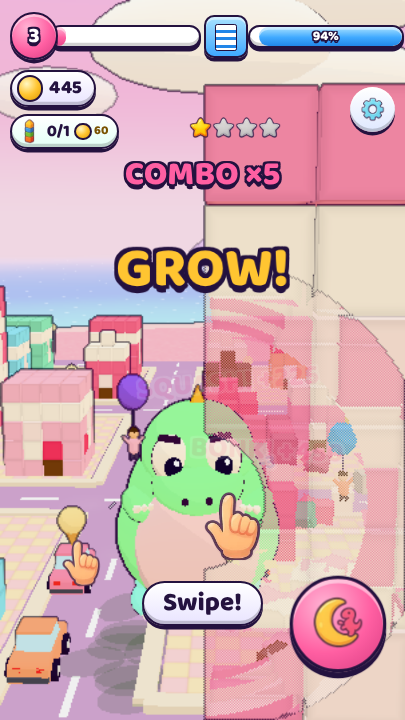
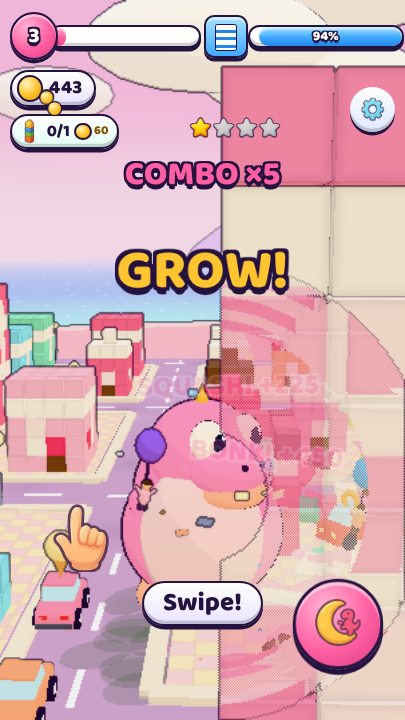
Toy City Stomp: perbaiki "THREE is not defined" di draft Astrocade (#59)
* fix: market-check baca feed v4; cek pasar 2026-11-19

Endpoint feed pindah dari /v3/feed ke /v4/feed, jadi Players' Choice kosong.
Task: cek backend Astrocade 2026-11-19

Claude-Session: https://claude.ai/code/session_01S4KwR7MKC4j1g8MStTRCUH

* chore: upgrade otak ASTROCADE.md, cek backend 19 Nov

Tipe tercepat diukur ulang dari laju plays live 132 game; 8 game teratas
dibedah untuk alasan tidak di-skip dan sesi panjang; cara ukur diperbarui
(feed v4, /v3/games lewat halaman game tamu, astrotopper harian).
Task: cek backend Astrocade 2026-11-19

Claude-Session: https://claude.ai/code/session_01S4KwR7MKC4j1g8MStTRCUH

* chore: upgrade otak ASTROCADE.md, rumus genre hancurkan

9 game hancurkan teratas dibedah (Smash Everything, Kaiju City, Prank City,
Crash Bot Lab, Robo-Crash, 2 TNT voxel, 2 ragdoll): hook, umpan balik,
kombo/eskalasi, koleksi alat, sasaran tak habis, pemicu share, aturan aman anak.
Task: cek backend Astrocade 2026-11-19

Claude-Session: https://claude.ai/code/session_01S4KwR7MKC4j1g8MStTRCUH

* feat: Toy City Stomp, uji rupa 3D monster raksasa di kota mainan

Bonbon berjalan satu jari, gigit balok, rumah ambruk, menara domino, mobil penyok,
warga balon, tumbuh 8 tahap, kombo, Putar Ekor, layar hasil, 7 bahasa, tembus pandang.
Alat baru tools/artifact-modules.js untuk artifact game modul ES.
Task: GDD Toy City Stomp K1-K6 (artifact 2026-11-19)

Claude-Session: https://claude.ai/code/session_01S4KwR7MKC4j1g8MStTRCUH
[…]

diff --git a/prototypes/toy-city-stomp/shapes.js b/prototypes/toy-city-stomp/shapes.js
@@ -1,10 +1,9 @@
-// PROTOTYPE - NOT FOR PRODUCTION
 // Detailed toy shapes built from parts and merged into one geometry each (one draw call per kind of thing):
 // cars with wheel arches, glass cabin, lights and hubcaps; little people; trees; toy tanks and helicopters.
 // Parts carry their colour as vertex colours; white parts take the instance colour (each car its own paint).
 /* global THREE */ // Three.js r187, set on window by index.html before run()
 
-const tmp = new THREE.Color();
+let tmp = null; // created lazily: THREE arrives from the CDN after module import
 /** Merges [geometry, colour, matrix?] parts into one non-indexed geometry with position, normal and colour. */
 export function mergeParts(parts) {
   const pos = [], nor = [], colArr = [];
@@ -12,7 +11,7 @@ export function mergeParts(parts) {
     const g = g0.index ? g0.toNonIndexed() : g0.clone();
     if (m) g.applyMatrix4(m);
     if (!g.attributes.normal) g.computeVertexNormals();
-    tmp.setHex(c);
+    (tmp ||= new THREE.Color()).setHex(c);
     const p = g.attributes.position, n = g.attributes.normal;
     for (let i = 0; i < p.count; i++) { pos.push(p.getX(i), p.getY(i), p.getZ(i)); nor.push(n.getX(i), n.getY(i), n.getZ(i)); colArr.push(tmp.r, tmp.g, tmp.b); }
     g.dispose(); if (g0 !== g) g0.dispose();

diff --git a/prototypes/toy-city-stomp/playtest.js b/prototypes/toy-city-stomp/playtest.js
@@ -15,6 +15,17 @@ const server = http.createServer((q, s) => {
 (async () => {
   const port = server.address().port, fails = [];
   const check = (ok, msg) => { console.log((ok ? 'ok   ' : 'FAIL ') + msg); if (!ok) fails.push(msg); };
+  // Astrocade bundles every module into one script that runs before three.js arrives from the CDN: importing a
+  // module must not touch THREE (a top-level new THREE.Color() broke the draft once)
+  {
+    const bad = [], url = require('url');
+    globalThis.window = globalThis; // game.js registers window.run when imported
+    for (const f of ['toon', 'shapes', 'movefx', 'moves', 'missions', 'bonbon', 'army', 'city', 'game']) {
+      try { await import(url.pathToFileURL(path.join(__dirname, f + '.js')).href); } catch (e) { bad.push(`${f}.js: ${e.message}`); }
+    }
+    delete globalThis.window; delete globalThis.run;
+    check(bad.length === 0, `no module touches THREE when imported (${bad.join('; ') || 'all 9 load'})`);
+  }
   const browser = await chromium.launch({ args: ['--use-gl=angle', '--use-angle=swiftshader', '--enable-unsafe-swiftshader'] });
   // screen comfort, on its own page at normal speed: hold a wandering drag with a big Bonbon, record the camera
   {

diff --git a/ASTROCADE.md b/ASTROCADE.md
@@ -76,7 +76,7 @@ Semua terjadi di sesi Pinata Maker 2026-11-18. Tiap butir: apa yang salah, lalu 
 ### 4. Platform Astrocade dan Three.js (terbukti lewat unggah nyata)
 - Iframe persis 720×1280; `window.run = run`; host memanggil `run('play'|'edit')`, bisa lebih dari sekali. Mode edit: gambar hidup tanpa gameplay dan tanpa input.
 - Dilarang: `localStorage`, cookie, `alert`, popup, jaringan selain CDN (jsDelivr, unpkg, cdnjs) dan aset platform. Simpanan hanya `lib.saveUserGameState`/`getUserGameState` (satu slot, state penuh). Getar hanya `lib.haptics`. `lib.showGameParameters` wajib kalau config punya angka; leaderboard di `persistent_storage_config`.
-- Akun ini multi-berkas: `index.html` memuat `./game.js` sebagai modul; server uji lokal wajib mengirim `content-type: text/javascript`. Unggah: `create_game` tanpa berkas, lalu `begin_upload` (purpose `game_file`) + `curl -X PUT -T` + `save_draft` dengan `file_upload_ids`; semua berkas sumber harus ikut tiap simpan (`game_config.json` dan `asset_map.json` boleh ditinggal). Draft pribadi; publish menunggu kata user dan thumbnail GIF buatan user. `game_config.json` yang tidak dikirim tetap utuh, tapi server memformat ulang (ukuran berubah, nilai sama). `save_draft` menjawab "changed" kalau game diubah di tempat lain (mis. user memasang thumbnail): `pull_game`, bandingkan tiap berkas dengan `cmp`, gabungkan bila beda, baru simpan dengan `sync_token` baru; jangan pernah menimpa perubahan yang belum dilihat. Multi-berkas: tiap simpan mengirim semua berkas (README dan `index.html` ikut), yang tidak dikirim terhapus. **Three.js di game multi-berkas (2026-11-19):** bundler Astrocade (esbuild) gagal pada `import ... from 'three'` ("Could not resolve"). Yang lolos: import map + `<script type="module" data-lib>` di `index.html` yang menaruh `window.THREE` dan mengirim event `three-ready`; modul memakai `THREE` global tanpa import, dan `run()` menunggu event itu. Aset suara dari CDN Astrocade bisa di-`fetch` (CORS `*`).
+- Akun ini multi-berkas: `index.html` memuat `./game.js` sebagai modul; server uji lokal wajib mengirim `content-type: text/javascript`. Unggah: `create_game` tanpa berkas, lalu `begin_upload` (purpose `game_file`) + `curl -X PUT -T` + `save_draft` dengan `file_upload_ids`; semua berkas sumber harus ikut tiap simpan (`game_config.json` dan `asset_map.json` boleh ditinggal). Draft pribadi; publish menunggu kata user dan thumbnail GIF buatan user. `game_config.json` yang tidak dikirim tetap utuh, tapi server memformat ulang (ukuran berubah, nilai sama). `save_draft` menjawab "changed" kalau game diubah di tempat lain (mis. user memasang thumbnail): `pull_game`, bandingkan tiap berkas dengan `cmp`, gabungkan bila beda, baru simpan dengan `sync_token` baru; jangan pernah menimpa perubahan yang belum dilihat. Multi-berkas: tiap simpan mengirim semua berkas (README dan `index.html` ikut), yang tidak dikirim terhapus. **Three.js di game multi-berkas (2026-11-19):** bundler Astrocade (esbuild) gagal pada `import ... from 'three'` ("Could not resolve"). Yang lolos: import map + `<script type="module" data-lib>` di `index.html` yang menaruh `window.THREE` dan mengirim event `three-ready`; modul memakai `THREE` global tanpa import, dan `run()` menunggu event itu. Kode tingkat atas modul tidak boleh menyentuh `THREE` (mis. `const c = new THREE.Color()`): bundel jalan sebelum Three.js datang → `THREE is not defined` (20 Nov, `shapes.js`); buat saat dipakai. Lokal/artifact tidak menangkapnya; `playtest.js` mengimpor tiap modul tanpa `THREE`. Setelah `save_draft`, buka `list_versions`: wish "fix error" dari user berarti draft rusak. Aset suara dari CDN Astrocade bisa di-`fetch` (CORS `*`).
 - **Unggahan bersih (WAJIB, sejak 2026-11-18):** yang naik ke Astrocade hanya bicara soal gamenya. Siapkan berkas dengan `tools/astrocade-upload-set.sh <folder game> <folder keluar>`: ia menyalin `index.html` dan semua `.js` kecuali skrip uji (yang memakai Playwright; daftar nama manual pernah meloloskan `contrast.js`), membuang header prototipe, dan gagal kalau masih ada kata soal cara kerja (prototipe, playtest, audit, agen, AI, riset, tren, nama kreator lain). **`README.md` wajib** menurut panduan resmi (satu dari 5 berkas: ringkasan game + struktur kode); README repo memuat catatan kerja, jadi tulis versi bersih di `README.upload.md` (alat menyalinnya jadi `README.md`). **Metadata (permintaan user 2026-11-19):** panduan Astrocade tidak punya field kategori/genre/tag; yang bisa dibaca AI-nya hanya judul, deskripsi, README, komentar ringkasan di kode, dan `<title>`. Judul = nama + frasa genre ("Draw It Alive: Draw the Missing Part"); deskripsi dibuka kata kerja + hadiah; README menyebut genre, usia, cara main, tema, fitur; komentar kepala `game.js` dibuka dengan baris genre dan selalu sesuai isi game. Yang terbukti menaikkan plays tetap significant ≥80% dan FPS Optimal (§11), bukan metadata. Header prototipe tetap di repo karena aturan repo. `creator_request`, `change_summary`, `reason` hanya berisi perubahan pada game; kolom itu dibaca peninjau. Kode `DEBUG` (`?local`) boleh tetap: uji memakainya, dan game teratas kreator lain juga membawa mode uji.
 - Generator aset jalan sebelum game dibuat, 8 sekaligus; serahkan ke satu subagen supaya konteks utama hemat. Gaya konsisten kalau semua prompt memakai kalimat yang sama ("glossy 3D kawaii toy style, bright saturated colors, big sparkly eyes").
 - Three.js terbaru (0.187.0) hanya modul ES. Terkecil: `await import('https://cdn.jsdelivr.net/npm/three@0.187.0/+esm')` (satu berkas ±157 KB terkompres), cadangan `build/three.module.js` di jsDelivr dan unpkg; tiap percobaan ulang pakai query baru. Lampu sejak r155 perlu intensitas ±2. Cahaya pantul krem, bukan hijau (kuning jadi zaitun).
